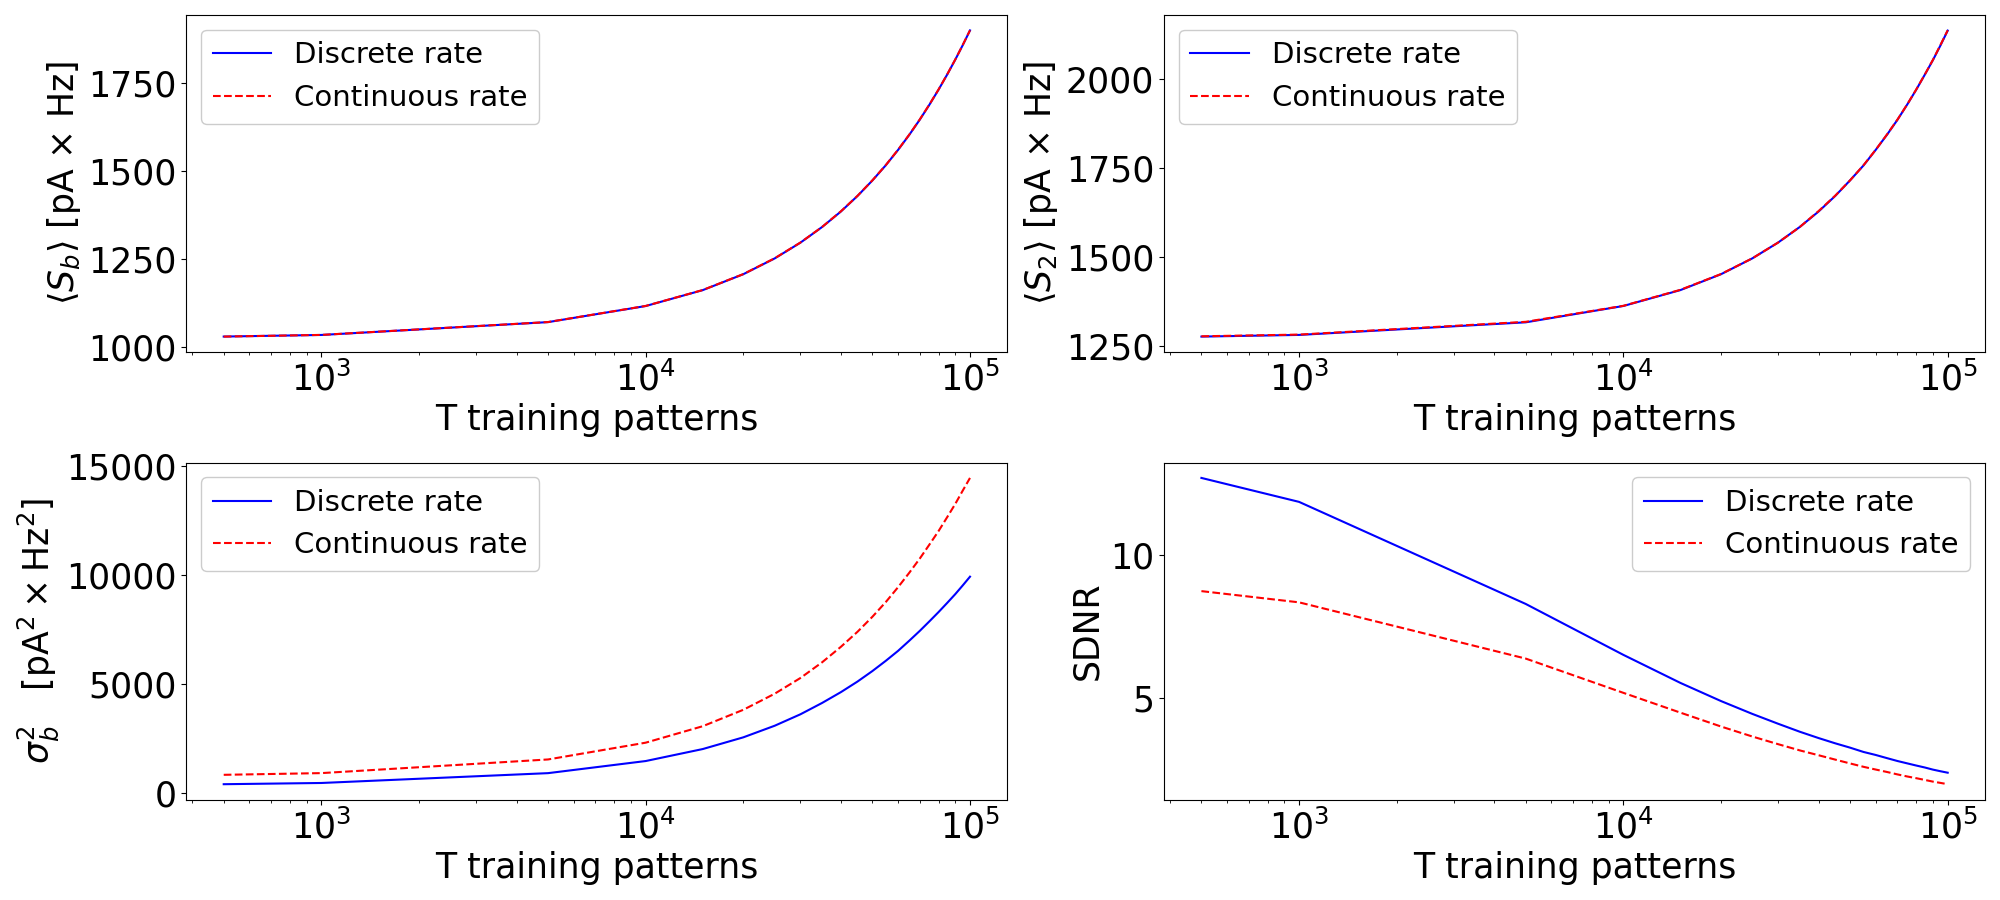
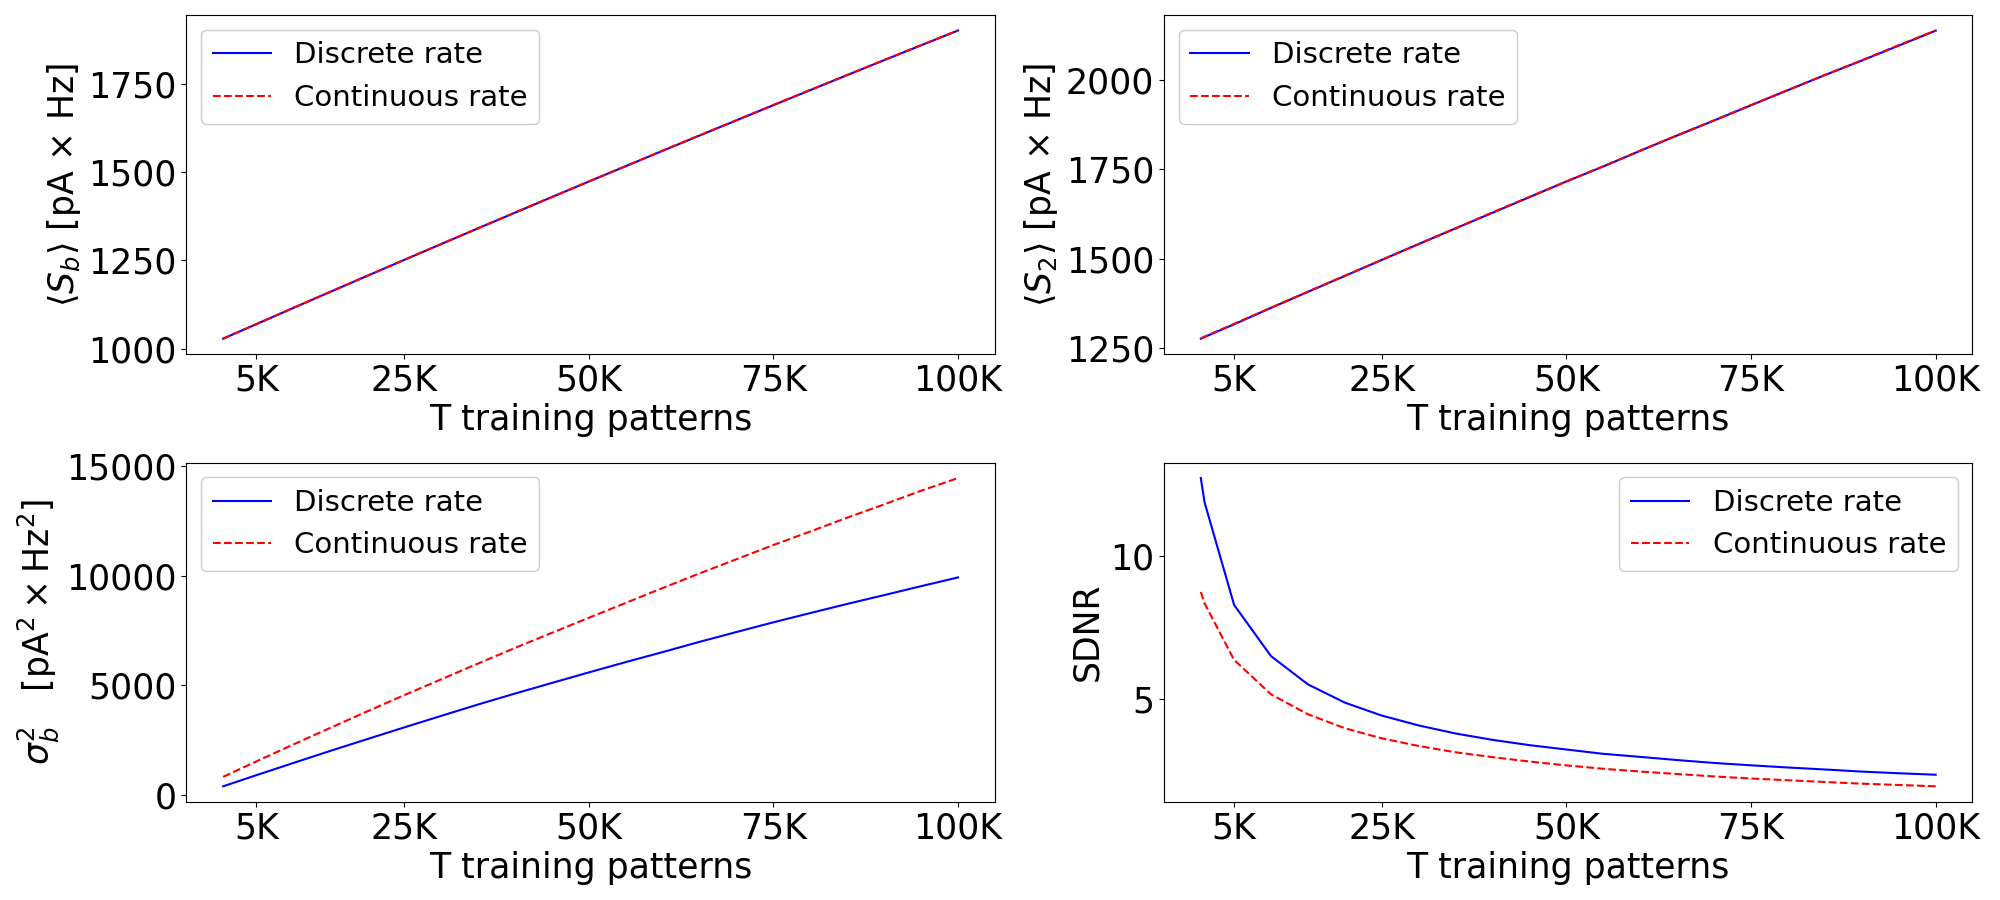
added plots and completed data analisys

diff --git a/plot.py b/plot.py
@@ -432,7 +432,9 @@ def plot_data_luca(discr, th_discr, ln, th_ln, ln_noise, th_ln_noise):
     ax1.set_ylabel(r"$\langle S_b \rangle$ [pA $\times$ Hz]", fontsize=tick_fs)
     ax1.set_xlabel("T training patterns", fontsize=tick_fs)
     ax1.tick_params(labelsize=tick_fs)
-    ax1.set_xscale('log')
+    #ax1.set_xscale('log')
+    ax1.set_xticks([5000, 25000, 50000, 75000, 100000])
+    ax1.set_xticklabels(["5K", "25K", "50K", "75K", "100K"])
     #ax1.legend(title=r"$\langle S_b \rangle$", title_fontsize=legend_fs, fontsize=legend_fs, framealpha=1.0)
     ax1.legend(fontsize=legend_fs, framealpha=1.0)
 
@@ -441,7 +443,9 @@ def plot_data_luca(discr, th_discr, ln, th_ln, ln_noise, th_ln_noise):
     ax2.set_ylabel(r"$\langle S_2 \rangle$ [pA $\times$ Hz]", fontsize=tick_fs)
     ax2.set_xlabel("T training patterns", fontsize=tick_fs)
     ax2.tick_params(labelsize=tick_fs)
-    ax2.set_xscale('log')
+    #ax2.set_xscale('log')
+    ax2.set_xticks([5000, 25000, 50000, 75000, 100000])
+    ax2.set_xticklabels(["5K", "25K", "50K", "75K", "100K"])
     #ax2.legend(title=r"$\langle S_2 \rangle$", title_fontsize=legend_fs, fontsize=legend_fs, framealpha=1.0)
     ax2.legend(fontsize=legend_fs, framealpha=1.0)
 
@@ -451,7 +455,9 @@ def plot_data_luca(discr, th_discr, ln, th_ln, ln_noise, th_ln_noise):
     ax3.set_xlabel("T training patterns", fontsize=tick_fs)
     ax3.set_ylabel(r"$\sigma^2_b \quad [\mathrm{pA}^2 \times \mathrm{Hz}^2]$", fontsize=tick_fs)
     ax3.tick_params(labelsize=tick_fs)
-    ax3.set_xscale('log')
+    #ax3.set_xscale('log')
+    ax3.set_xticks([5000, 25000, 50000, 75000, 100000])
+    ax3.set_xticklabels(["5K", "25K", "50K", "75K", "100K"])
     #ax3.legend(title=r"$\sigma^2_b$", fontsize=legend_fs, title_fontsize=legend_fs, framealpha=1.0)
     ax3.legend(fontsize=legend_fs, framealpha=1.0)
 
@@ -461,7 +467,9 @@ def plot_data_luca(discr, th_discr, ln, th_ln, ln_noise, th_ln_noise):
     ax4.set_xlabel("T training patterns", fontsize=tick_fs)
     ax4.set_ylabel(r"SDNR", fontsize=tick_fs)
     ax4.tick_params(labelsize=tick_fs)
-    ax4.set_xscale('log')
+    #ax4.set_xscale('log')
+    ax4.set_xticks([5000, 25000, 50000, 75000, 100000])
+    ax4.set_xticklabels(["5K", "25K", "50K", "75K", "100K"])
     #ax4.legend(title=r"SDNR", fontsize=legend_fs, title_fontsize=legend_fs, framealpha=1.0)
     ax4.legend(fontsize=legend_fs, framealpha=1.0)
 

diff --git a/plot_residui.py b/plot_residui.py
@@ -648,6 +648,7 @@ def plot_data(discr, th_discr, ln, th_ln, ln_noise, th_ln_noise, label):
     #fig1.subplots_adjust(wspace=0.6)
     #fig1.subplots_adjust(bottom=0.1, top=0.97, right=0.975, left=0.1)
     #fig1.suptitle('Lognormal Model', fontsize=25)
+    #fig1.savefig('lognormal.png')
     fig1.savefig('lognormal.png')
     #fig1.show()
     
